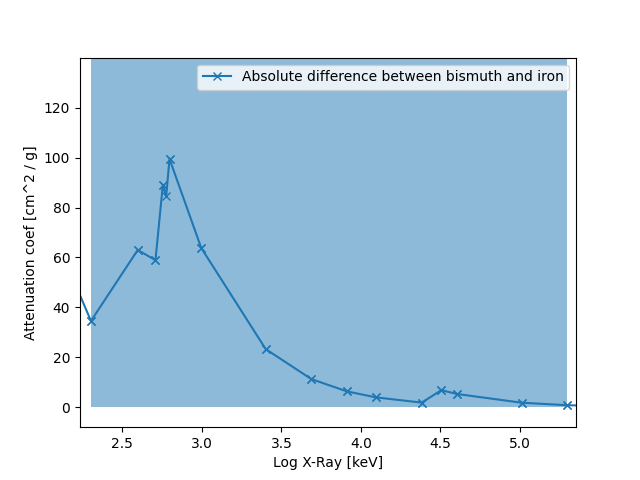
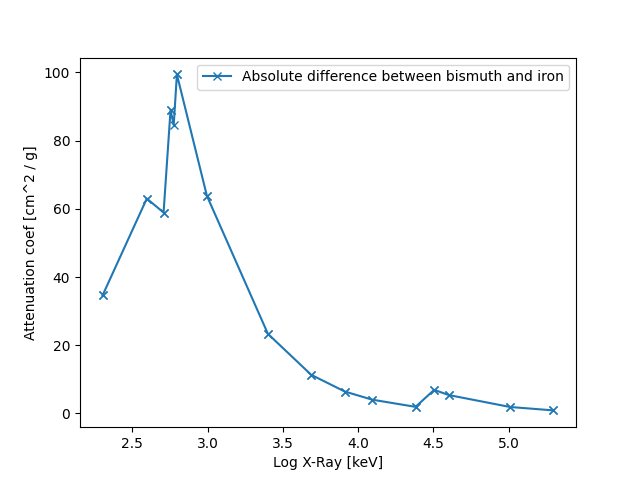
Better pictures!

diff --git a/code/atttenuation_coef.py b/code/atttenuation_coef.py
@@ -61,12 +61,14 @@ new_y_iron = np.interp(x_combined, x_val_iron, y_val_iron)
 
 diff_yinterp = np.abs(new_y_bismuth - new_y_iron)
 plt.figure("diff")
-plt.plot(np.log(x_combined), diff_yinterp, '-x')
+plt.plot(
+    np.log([x for x in x_combined if x >= 10 and x <= 200]), 
+    [diff for x,diff in zip(x_combined, diff_yinterp) if x >= 10 and x <= 200], '-x')
 plt.xlabel("Log X-Ray [keV]")
 plt.ylabel("Attenuation coef [cm^2 / g]")
 plt.legend(["Absolute difference between bismuth and iron"])
 
-plt.fill_betweenx([min(y_val_iron),max(y_val_iron)],np.log(10),np.log(200),alpha=0.5)
+# plt.fill_betweenx([min(y_val_iron),max(y_val_iron)],np.log(10),np.log(200),alpha=0.5)
 
 combined = [(diff, x, np.log(x)) for diff,x in zip(diff_yinterp, x_combined) if x >= 10 and x <= 200]
 print(max(combined, key=lambda v: v[0]))
@@ -88,14 +90,17 @@ print(max(combined, key=lambda v: v[0]))
 
 # iron_bismuth_diff = np.abs(y_val_bismuth - y_val_iron)
 
+diff_f = lambda x_list, diff_list: [diff for x, diff in zip(x_list, diff_list) if x >= 10 and x <= 200]
+x_f = lambda x_list: [x for x in x_list if x >= 10 and x <= 200]
+
 plt.figure("raw data, log x")
-plt.plot(np.log(x_val_iron), y_val_iron, '-x')
-plt.plot(np.log(x_val_bismuth), y_val_bismuth, '-x')
-plt.plot(np.log(x_val_wood), y_val_wood, '-x')
+plt.plot(np.log(x_f(x_val_iron)), diff_f(x_val_iron, y_val_iron), '-x')
+plt.plot(np.log(x_f(x_val_bismuth)), diff_f(x_val_bismuth, y_val_bismuth), '-x')
+plt.plot(np.log(x_f(x_val_wood)), diff_f(x_val_wood, y_val_wood), '-x')
 plt.xlabel("Log X-Ray [keV]")
 plt.ylabel("Attenuation coef [cm^2 / g]")
 
-plt.fill_betweenx([min(y_val_iron),max(y_val_iron)],np.log(10),np.log(200),alpha=0.5)
+#plt.fill_betweenx([min(y_val_iron),max(y_val_iron)],np.log(10),np.log(200),alpha=0.5)
 plt.legend(["Iron", "Bismuth", "Wood"])
 
 plt.show()

diff --git a/code/ridge_regularization.py b/code/ridge_regularization.py
@@ -18,24 +18,15 @@ theta = np.matrix(np.linspace(1 + 0, 1 + 180-2, 180 // 2))
 p=30
 A, _,_ ,_ = paralleltomo(n,theta,p)
 print(f"Condition number {np.linalg.cond(A)}")
+
+b = A @ x_input
+
 #Plot of pixels as a function of alpha
 n_alphas = 10
 alphas = np.logspace(10, -2, n_alphas)
-
 coefs = []
 for a in alphas:
-    ridge = sklin.Ridge(alpha=a, fit_intercept=False)
-    ridge.fit(A, b)
-    ridge.coef_ = ridge.coef_ / np.max(ridge.coef_)
-    coefs.append(ridge.coef_)
-
-
-b = A @ x_input
-lam = 0
-model = sklin.Ridge(alpha = lam)
-
-model.fit(A,b)
-x_ridge = model.coef_
-im_recov_ridge = np.reshape(x_ridge,(N,N))
-plt.imshow(im_recov_ridge)
-plt.show()
+    model = sklin.Ridge(alpha=a, fit_intercept=False)
+    model.fit(A, b)
+    model.coef_ = model.coef_ / np.max(model.coef_)
+    coefs.append(model.coef_)
